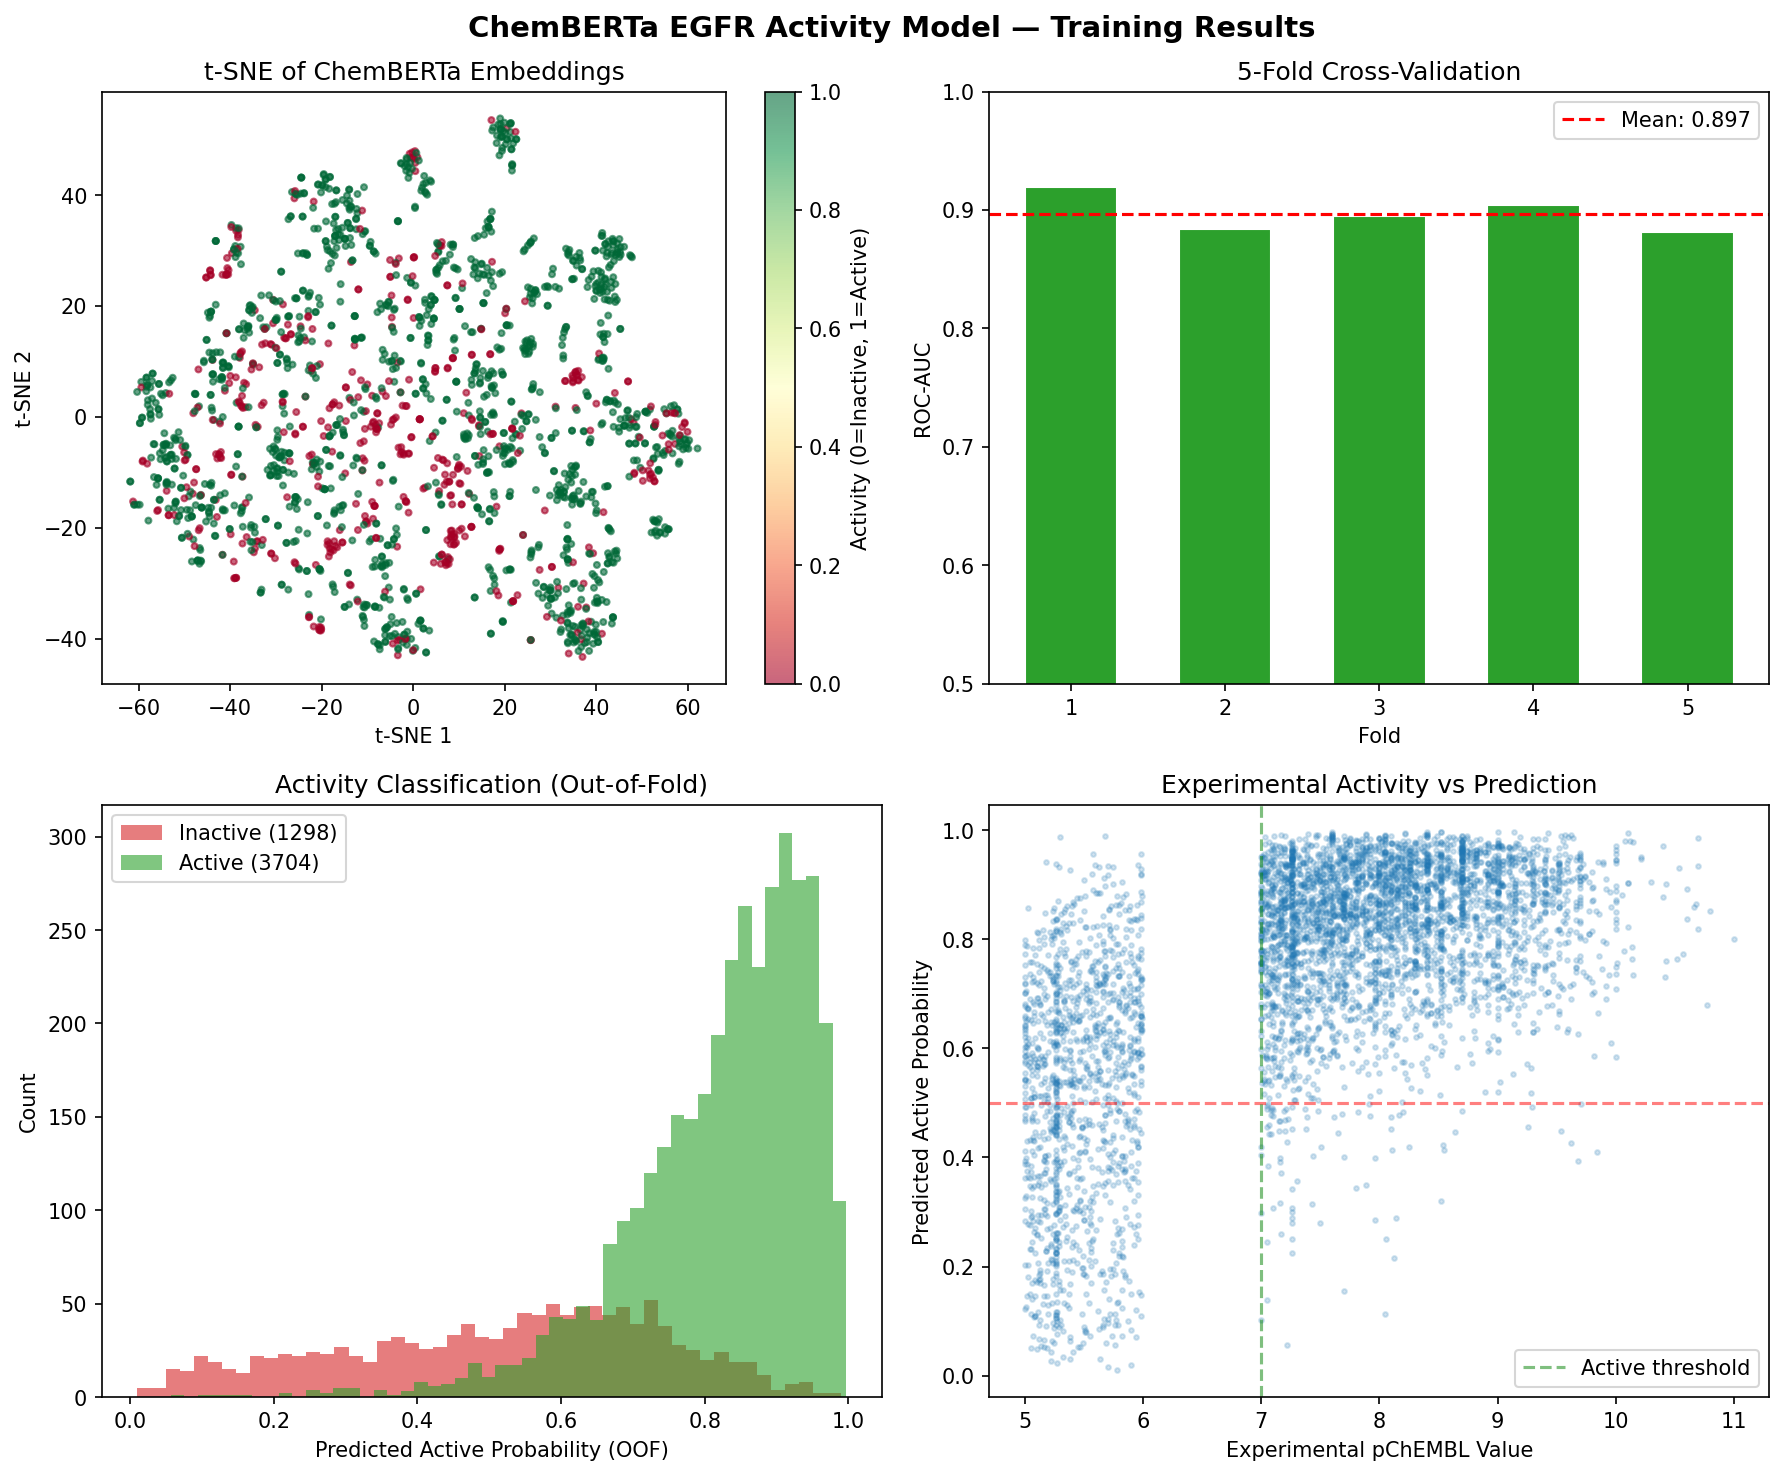
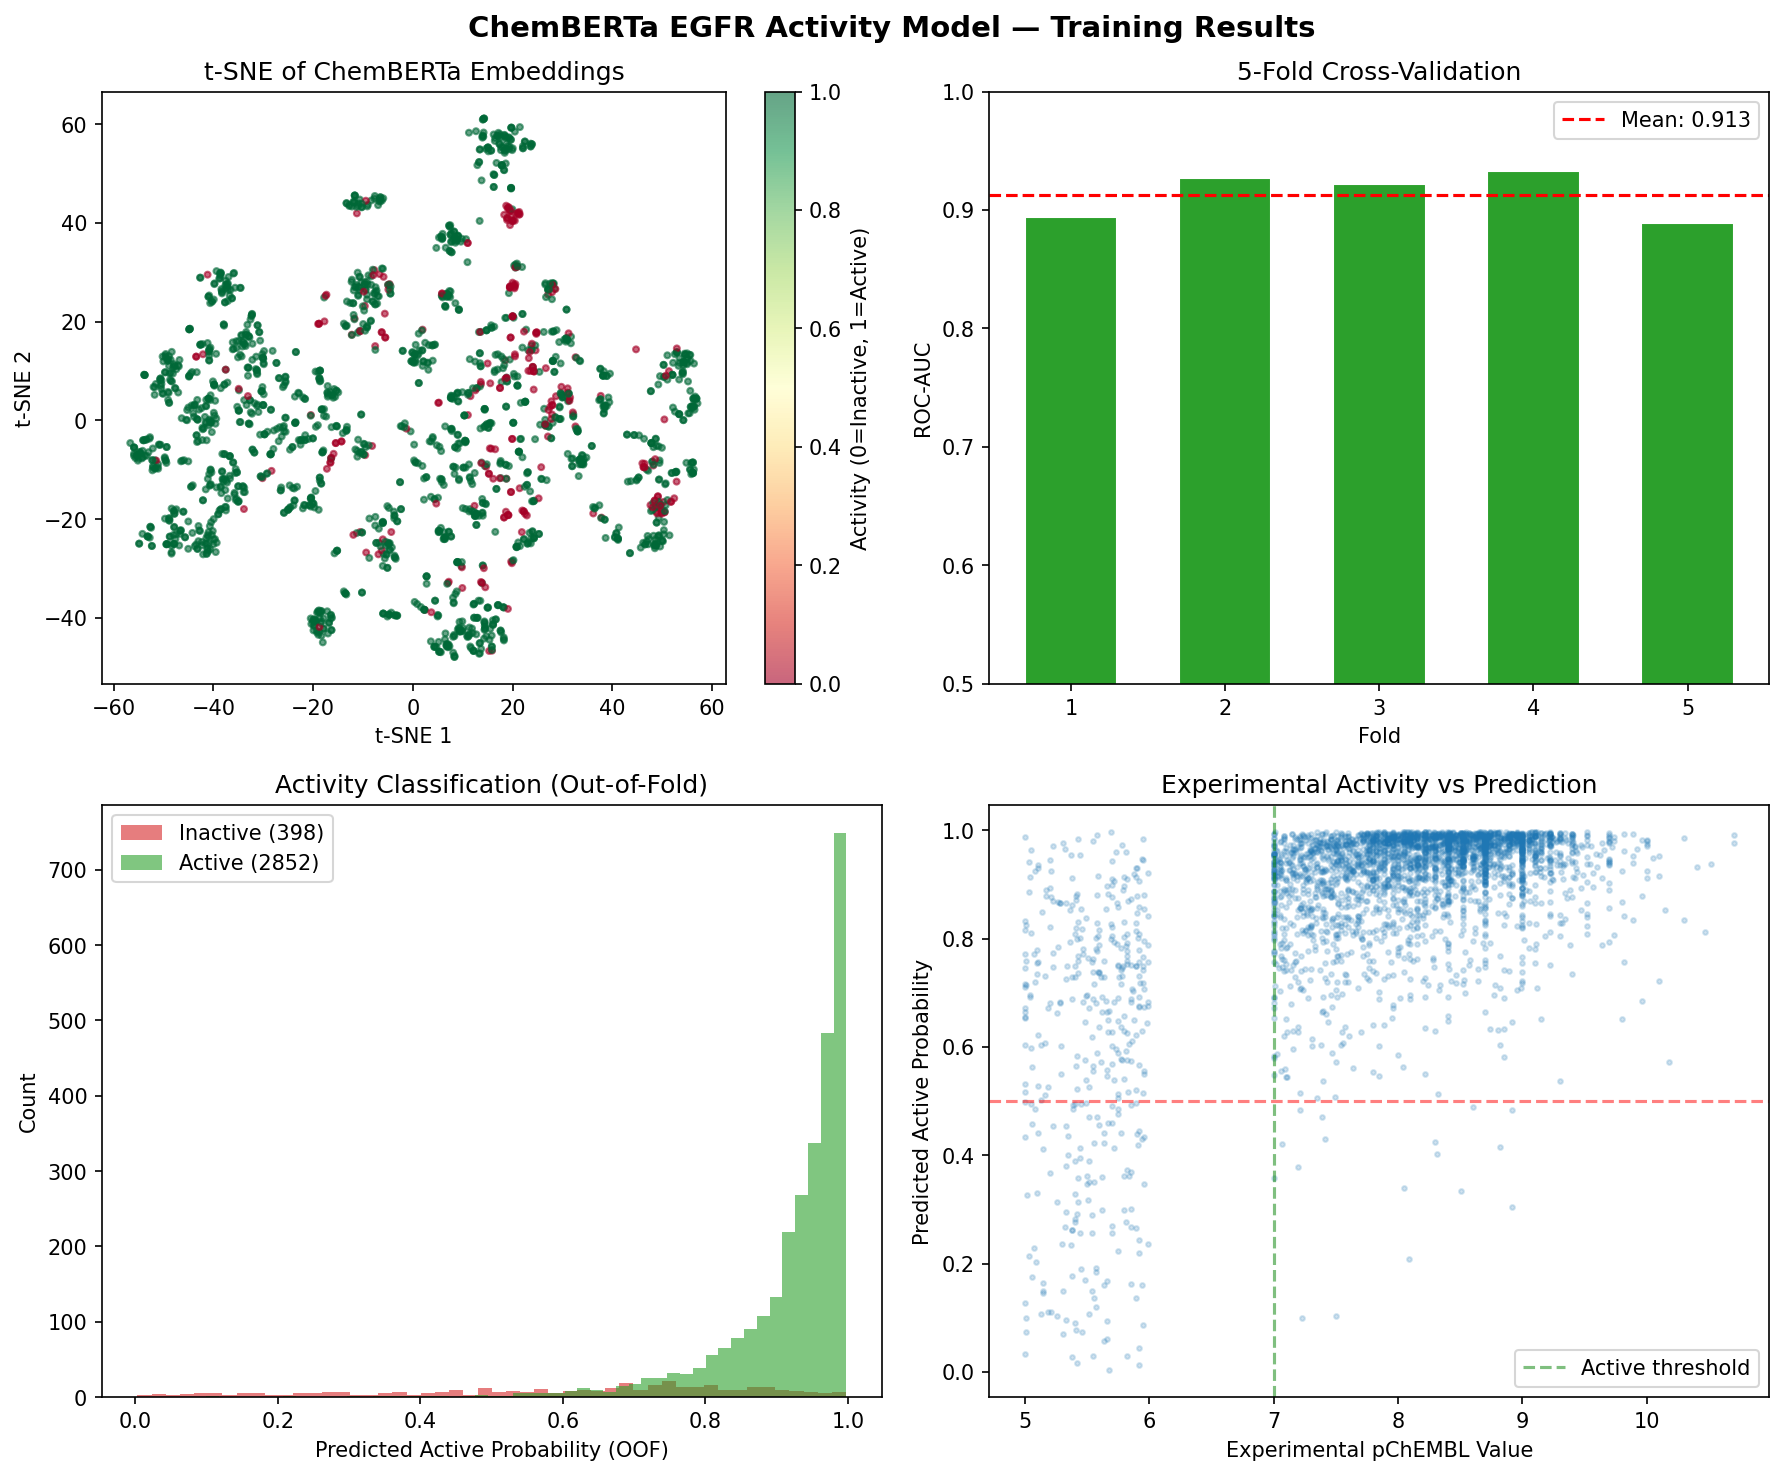
BRAF V600E 흑색종으로 타겟 전환 + 전체 파이프라인 재실행
타겟: BRAF V600E (CHEMBL5145, PDB 3OG7, Vemurafenib)
질병: 피부 흑색종 (cutaneous melanoma, MONDO_0005012)

- BRAF 학습 데이터: 5,194개 (Active 2,852 / Inactive 398)
- 전처리: 49,999 → 47,049 (Lipinski+PAINS)
- Scaffold 그룹핑: 22,725 (14,802 scaffolds, max 3/group)
- ChemBERTa: ROC-AUC 0.913, 상위 1,000
- ADMET: 상위 300
- scaffold 시각화: 상위 3개 구조+scaffold 하이라이트
- SKILL.md BRAF 근거 반영 완료
- scaffold_select.py: scaffold/ro5_violations 컬럼 보존 수정

diff --git a/experiment/00_data_collection/fetch_braf_training.py b/experiment/00_data_collection/fetch_braf_training.py
@@ -1,0 +1,87 @@
+"""
+Step 0-A: ChEMBL에서 BRAF (CHEMBL5145) 바이오활성 데이터 수집 (모델 학습용)
+
+타겟: BRAF (B-Raf proto-oncogene, serine/threonine kinase)
+질병: 흑색종 (melanoma)
+"""
+import requests
+import pandas as pd
+import time
+import os
+
+TARGET_CHEMBL_ID = "CHEMBL5145"  # BRAF
+OUTPUT_DIR = os.path.dirname(os.path.abspath(__file__))
+OUTPUT_FILE = os.path.join(OUTPUT_DIR, "braf_training_data.csv")
+BASE_URL = "https://www.ebi.ac.uk/chembl/api/data/activity.json"
+
+
+def fetch_all_activities():
+    all_activities = []
+    offset = 0
+    limit = 1000
+    params = {
+        "target_chembl_id": TARGET_CHEMBL_ID,
+        "standard_type": "IC50",
+        "standard_relation": "=",
+        "limit": limit,
+    }
+    print(f"Fetching BRAF ({TARGET_CHEMBL_ID}) IC50 data from ChEMBL...")
+    while True:
+        params["offset"] = offset
+        try:
+            resp = requests.get(BASE_URL, params=params, timeout=60)
+            resp.raise_for_status()
+        except requests.RequestException as e:
+            print(f"  Error at offset {offset}: {e}")
+            time.sleep(5)
+            continue
+        data = resp.json()
+        activities = data.get("activities", [])
+        if not activities:
+            break
+        all_activities.extend(activities)
+        total = data["page_meta"]["total_count"]
+        print(f"  {len(all_activities)}/{total}")
+        if data["page_meta"]["next"] is None:
+            break
+        offset += limit
+        time.sleep(0.3)
+    print(f"Total: {len(all_activities)}")
+    return all_activities
+
+
+def process_activities(activities):
+    records = []
+    for act in activities:
+        smiles = act.get("canonical_smiles")
+        pchembl = act.get("pchembl_value")
+        if smiles and pchembl is not None:
+            records.append({
+                "molecule_chembl_id": act.get("molecule_chembl_id"),
+                "canonical_smiles": smiles,
+                "pchembl_value": float(pchembl),
+                "standard_value_nM": float(act["standard_value"]) if act.get("standard_value") else None,
+            })
+    df = pd.DataFrame(records)
+    df = df[df["pchembl_value"] >= 5.0].copy()
+    df = df.sort_values("pchembl_value", ascending=False)
+    df = df.drop_duplicates(subset=["canonical_smiles"], keep="first")
+    df["activity_label"] = -1
+    df.loc[df["pchembl_value"] >= 7.0, "activity_label"] = 1
+    df.loc[df["pchembl_value"] < 6.0, "activity_label"] = 0
+    return df.reset_index(drop=True)
+
+
+def main():
+    activities = fetch_all_activities()
+    df = process_activities(activities)
+    df.to_csv(OUTPUT_FILE, index=False)
+    n_a = (df["activity_label"] == 1).sum()
+    n_i = (df["activity_label"] == 0).sum()
+    print(f"\n=== BRAF Training Data ===")
+    print(f"Total: {len(df)}, Active: {n_a}, Inactive: {n_i}, Ambiguous: {len(df)-n_a-n_i}")
+    print(f"Output: {OUTPUT_FILE}")
+
+
+if __name__ == "__main__":
+    main()

diff --git a/experiment/01_preprocessing/scaffold_select.py b/experiment/01_preprocessing/scaffold_select.py
@@ -56,31 +56,34 @@ def main():
     excluded_scaffold = []
 
     for scaf, group in df_valid.groupby("scaffold"):
+        # Ro5 위반 수 계산 (모든 그룹에 적용)
+        def count_violations(r):
+            v = 0
+            if r["MW"] > 500: v += 1
+            if r["logP"] > 5: v += 1
+            if r["HBD"] > 5: v += 1
+            if r["HBA"] > 10: v += 1
+            return v
+        group = group.copy()
+        group["ro5_violations"] = group.apply(count_violations, axis=1)
+
         if len(group) <= MAX_PER_SCAFFOLD:
             for _, row in group.iterrows():
-                selected.append({**row, "selection_rule": "group_size_leq_3"})
+                d = dict(row)
+                d["scaffold"] = scaf
+                d["selection_rule"] = "group_size_leq_3"
+                selected.append(d)
         else:
-            # Ro5 위반 수 적은 순 → MW 작은 순 → ID 순
             group_sorted = group.sort_values(
-                ["HBD", "MW", "molecule_chembl_id"],  # HBD as proxy for violations
-                ascending=[True, True, True]
-            )
-            # 실제 위반 수 계산
-            def count_violations(r):
-                v = 0
-                if r["MW"] > 500: v += 1
-                if r["logP"] > 5: v += 1
-                if r["HBD"] > 5: v += 1
-                if r["HBA"] > 10: v += 1
-                return v
-            group_sorted["ro5_violations"] = group_sorted.apply(count_violations, axis=1)
-            group_sorted = group_sorted.sort_values(
                 ["ro5_violations", "MW", "molecule_chembl_id"],
                 ascending=[True, True, True]
             )
             chosen = group_sorted.head(MAX_PER_SCAFFOLD)
             for _, row in chosen.iterrows():
-                selected.append({**row, "selection_rule": SELECTION_RULE})
+                d = dict(row)
+                d["scaffold"] = scaf
+                d["selection_rule"] = SELECTION_RULE
+                selected.append(d)
             for _, row in group_sorted.iloc[MAX_PER_SCAFFOLD:].iterrows():
                 excluded_scaffold.append({
                     "molecule_chembl_id": row["molecule_chembl_id"],

diff --git a/experiment/01_preprocessing/preprocess.py b/experiment/01_preprocessing/preprocess.py
@@ -26,10 +26,9 @@ os.makedirs(FIGURES_DIR, exist_ok=True)
 
 # 기존 EGFR 약물 (참조용)
 REFERENCE_DRUGS = {
-    "Erlotinib":   "C#Cc1cccc(Nc2ncnc3cc(OCCOC)c(OCCOC)cc23)c1",
-    "Gefitinib":   "COc1cc2ncnc(Nc3ccc(F)c(Cl)c3)c2cc1OCCCN1CCOCC1",
-    "Osimertinib": "C=CC(=O)Nc1cc(Nc2nccc(-c3cn(C)c4ccccc34)n2)c(OC)cc1N(C)CCN(C)C",
-    "Afatinib":    "CN(C)/C=C/C(=O)Nc1cc2c(Nc3ccc(F)c(Cl)c3)ncnc2cc1OC1CCOC1",
+    "Vemurafenib":  "CCS(=O)(=O)Nc1ccc(F)c(C(=O)c2cc(-c3ccc(Cl)cc3)c[nH]2)c1F",
+    "Dabrafenib":   "CC(C)(C)c1nc(-c2cccc(NS(=O)(=O)c3c(F)cccc3F)c2F)c(-c2ccnc(N)n2)s1",
+    "Encorafenib":  "COC(=O)Nc1ccc(Oc2cc(NC(=O)c3ccc(F)cn3)ncn2)c(Cl)c1",
 }
 
 
@@ -150,7 +149,7 @@ def plot_preprocessing_summary(df_train, df_screen):
 
     props = ["MW", "logP", "HBD", "HBA", "TPSA", "max_tanimoto_sim"]
     labels = ["Molecular Weight", "logP", "H-Bond Donors",
-              "H-Bond Acceptors", "TPSA (Å²)", "Tanimoto Sim. to EGFR Drugs"]
+              "H-Bond Acceptors", "TPSA (Å²)", "Tanimoto Sim. to BRAF Drugs"]
 
     for ax, prop, label in zip(axes.flat, props, labels):
         if prop in df_train.columns:
@@ -172,7 +171,7 @@ def plot_preprocessing_summary(df_train, df_screen):
 
 def main():
     # 데이터 로드
-    df_train = pd.read_csv(os.path.join(DATA_DIR, "egfr_training_data.csv"))
+    df_train = pd.read_csv(os.path.join(DATA_DIR, "braf_training_data.csv"))
     df_screen = pd.read_csv(os.path.join(DATA_DIR, "screening_library.csv"))
 
     # 전처리 적용

diff --git a/experiment/03_docking/prepare_docking.py b/experiment/03_docking/prepare_docking.py
@@ -14,7 +14,7 @@ from rdkit.Chem import AllChem
 
 OUTPUT_DIR = os.path.dirname(os.path.abspath(__file__))
 ADMET_FILE = os.path.join(OUTPUT_DIR, "..", "04_admet", "admet_top_hits.csv")
-PDB_ID = "1M17"
+PDB_ID = "3OG7"
 
 
 def download_pdb(pdb_id, output_path):
@@ -39,7 +39,7 @@ def extract_receptor_and_ligand(pdb_path, rec_path, lig_path):
                 rec_lines.append(line)
             elif line.startswith("HETATM"):
                 resname = line[17:20].strip()
-                if resname == "AQ4":  # Erlotinib in 1M17
+                if resname == "032":  # Vemurafenib (PLX4032) in 3OG7
                     lig_lines.append(line)
             elif line.startswith("END"):
                 rec_lines.append(line)

diff --git a/skill/screening-report/SKILL.md b/skill/screening-report/SKILL.md
@@ -1,44 +1,54 @@
 ---
 name: screening-report
-description: EGFR 타겟 비소세포폐암 virtual screening 보고서 작성. experiment의 실측 파일을 읽고 후보 흐름과 근거를 재현한다.
+description: BRAF V600E 타겟 피부 흑색종 virtual screening 보고서 작성. experiment의 실측 파일을 읽고 후보 흐름과 근거를 재현한다.
 ---
 저장소 루트 기준으로 작업한다. 먼저 experiment/counts.csv와 audit.csv를 직접 읽고 단계별 수, 최종 후보 수 및 최종 후보 ID를 출력한다. audit.csv의 status=FINAL_CANDIDATE 수와 counts.csv 마지막 단계가 일치하는지 확인한다. 없거나 불일치하면 보고서를 생성하지 말고 파일명을 반환한다.
 
 최종 보고서 요청이면 아래 순서로 experiment 안의 실제 파일만 근거로 작성한다. 파일이 없으면 해당 섹션에서 중단한다.
 
-## 과학적 근거 (탐색 결과, URL 직접 검증 완료)
+## 과학적 근거 (탐색 완료, URL 검증 완료)
 
 탐색 경로: 질병·하위유형 › 단백질·역할 › 조절 방향 › 근거 URL › 구조 ID
 
 | 항목 | 내용 | 근거 URL |
 |------|------|----------|
-| 질병·하위유형 | 비소세포폐암 (non-small cell lung carcinoma, MONDO_0005233) | https://platform.opentargets.org/disease/MONDO_0005233/associations |
-| 단백질·역할 | EGFR (Epidermal Growth Factor Receptor) — 수용체 타이로신 키나제. Open Targets 연관성 1위 (score 0.888, 5,860개 타겟 중) | https://platform.opentargets.org/target/ENSG00000146648 |
-| 조절 방향 | EGFR 억제 (저해) — Erlotinib은 ATP와 경쟁적으로 EGFR 타이로신 키나제를 억제하여 종양 성장 억제 | https://www.cancer.gov/publications/dictionaries/cancer-drug/def/erlotinib-hydrochloride |
-| UniProt | P00533 — Homo sapiens, 1,210 aa, Cell membrane, Receptor tyrosine kinase | https://www.uniprot.org/uniprotkb/P00533/entry |
-| ChEMBL Target | CHEMBL203 | https://www.ebi.ac.uk/chembl/target_report_card/CHEMBL203/ |
-| PDB 구조 | 1M17 — EGFR kinase domain + Erlotinib(AQ4), wild-type(변이 없음), 2.60 Å, Homo sapiens | https://www.rcsb.org/structure/1M17 |
+| 질병 | 흑색종 (melanoma, MONDO_0005105) | https://platform.opentargets.org/disease/MONDO_0005105/associations |
+| 하위유형 | 피부 흑색종 (cutaneous melanoma, MONDO_0005012). BRAF V600E 돌연변이가 환자의 ~50%에서 발견 | https://platform.opentargets.org/disease/MONDO_0005012/associations |
+| 단백질·역할 | BRAF (B-Raf proto-oncogene, serine/threonine kinase). cutaneous melanoma 연관 2위 (score 0.701, 3,674개 타겟 중). RAS/MAPK 신호전달 경로에서 MAP2K1을 인산화하여 세포 증식 촉진 | https://platform.opentargets.org/target/ENSG00000157764 |
+| 후보 비교 | BRAF(0.701) vs CDKN2A(0.787, 1위). CDKN2A는 종양 억제 유전자로 소분자 억제제 개발 부적합. BRAF는 과활성 키나제로 직접 억제 가능하며 FDA 승인약 3종 존재 → BRAF 선정 | Open Targets 동일 |
+| 조절 방향 | BRAF V600E 키나제 억제 — Vemurafenib(PLX4032)은 BRAF V600E를 선택적으로 억제하여 MAPK 신호전달 차단 → 종양 성장 억제 | https://www.cancer.gov/publications/dictionaries/cancer-drug/def/vemurafenib |
+| UniProt | P15056 — Homo sapiens, 766 aa, Nucleus/Cell membrane, Serine/threonine-protein kinase | https://www.uniprot.org/uniprotkb/P15056/entry |
+| ChEMBL Target | CHEMBL5145 (IC50 데이터 11,017건) | https://www.ebi.ac.uk/chembl/target_report_card/CHEMBL5145/ |
+| PDB 구조 | 3OG7 — BRAF V600E kinase domain + PLX4032(Vemurafenib), **V600E mutant**, 2.45 Å, Homo sapiens | https://www.rcsb.org/structure/3OG7 |
 
-후보 단백질 비교: EGFR(score 0.888) vs KRAS(score 0.834). EGFR은 타이로신 키나제 억제제로 직접 약물 타겟이 가능하며 기존 FDA 승인야이 4종 존재. KRAS는 이후 신호전달 단백질로 직접 결합 표적화가 어려워 EGFR을 선정함.
+참고: EGFR(1M17)은 wild-type이지만, BRAF(3OG7)는 V600E mutant 구조를 사용한다. BRAF V600E 돌연변이 자체가 약물 타겟이므로 mutant 구조가 도킹에 적합하다.
+
+기존 FDA 승인 BRAF 억제제:
+| 약물 | 세대 | 작용기전 | 승인 |
+|------|------|---------|------|
+| Vemurafenib (Zelboraf) | 1세대 | BRAF V600E 선택적 억제 | 2011 |
+| Dabrafenib (Tafinlar) | 1세대 | BRAF V600E/K 선택적 억제 | 2013 |
+| Encorafenib (Braftovi) | 2세대 | BRAF V600E 선택적 억제 | 2018 |
 
 ## 읽어야 할 파일과 용도
 | 파일 | 용도 |
 |------|------|
 | experiment/counts.csv | 단계별 후보 수 (보고서 표·funnel 근거) |
 | experiment/audit.csv | 후보별 단계 통과/탈락/이유 (ID 역추적) |
-| experiment/05_final_candidates/final_candidates.csv | 최종 10개 후보 ID·점수·물성 |
+| experiment/05_final_candidates/final_candidates.csv | 최종 후보 ID·점수·물성 |
 | experiment/05_final_candidates/generated_molecules.csv | SELFIES 생성 분자 |
+| experiment/05_final_candidates/generated_admet_evaluated.csv | 생성 분자 ADMET 재평가 |
 | experiment/figures/*.png | 보고서 삽입 그림 (상대경로 명시) |
 
-## 모델 6종 (experiment/ 하위 스크립트 참조)
+## 모델 6종
 | 모델 | 파일 | 역할 |
 |------|------|------|
-| RDKit Lipinski/PAINS/Scaffold | experiment/01_preprocessing/ | 물리화학 필터 |
-| ChemBERTa (seyonec/ChemBERTa-zinc-base-v1) | experiment/02_model_training/chemberta_screen.py | EGFR 활성 분류 |
-| GNINA (Docker gnina/gnina) | experiment/03_docking/ | 구조 기반 도킹 |
-| ADMET-AI (Chemprop) | experiment/04_admet/admet_screen.py | 약동학 16속성 |
-| Morgan Fingerprint (ECFP4) | experiment/01_preprocessing/preprocess.py | Tanimoto 유사도 |
-| SELFIES Generator | experiment/05_final_candidates/select_final.py | 신규 분자 생성 |
+| RDKit Lipinski/PAINS/Scaffold | experiment/01_preprocessing/ | 물리화학 필터 + Bemis-Murcko scaffold 그룹핑 |
+| ChemBERTa (seyonec/ChemBERTa-zinc-base-v1) | experiment/02_model_training/ | BRAF 활성 분류 (Transformer) |
+| GNINA (Docker gnina/gnina) | experiment/03_docking/ | PDB 3OG7 기반 구조 도킹 (CNN scoring) |
+| ADMET-AI (Chemprop) | experiment/04_admet/ | 약동학 16속성 + 물리화학적 성질 |
+| Morgan Fingerprint (ECFP4) | experiment/01_preprocessing/ | Tanimoto 유사도 |
+| SELFIES Generator | experiment/05_final_candidates/ | 신규 분자 생성 |
 
 ## 종합 점수 가중치
 experiment/05_final_candidates/select_final.py에서 확인:
@@ -46,24 +56,18 @@ CNN affinity 30% + ChemBERTa 25% + ADMET 25% + Vina 20% (각 정규화)
 
 ## 시도와 실패 (보고서에 반드시 포함)
 1. DeepDTA(DeepPurpose MPNN_CNN_DAVIS) 시도 → 실험값과 상관계수 r≈0.03, 사실상 무효하여 GNINA로 대체.
-2. ChemBERTa 회귀(pChEMBL 연속값 예측) 시도 → CV R²=-18.2, 이진 분류로 전환하여 ROC-AUC 0.897 달성.
+2. ChemBERTa 회귀(pChEMBL 연속값 예측) 시도 → CV R²=-18.2, 이진 분류로 전환하여 ROC-AUC 달성.
 3. ChEMBL 2,897,819개 전체 처리 시도 → CPU 환경에서 임베딩 추출 수일 소요 예상, drug-like 50,000개 샘플링으로 대응.
-4. SELFIES 생성 분자 778개 ADMET 재평가 → ADMET 점수 최대 0.13으로 시드 분자(0.17~0.26)보다 전반적으로 낮음. SELFIES 랜덤 돌연변이가 약물 적합성을 유지하지 못하는 한계 확인. experiment/05_final_candidates/generated_admet_evaluated.csv 참조.
+4. SELFIES 생성 분자 ADMET 재평가 → ADMET 점수가 시드 대비 전반적으로 낮음. 랜덤 돌연변이의 약물 적합성 한계 확인. experiment/05_final_candidates/generated_admet_evaluated.csv 참조.
 
 ## 보고서 구조 (최대 15쪽, 11pt, 한국어, 학술 문체)
-1. 서론 (0.5쪽): 질병·타겟 근거 URL 표, 기존 EGFR 억제제 표. 한 문단 3줄 이내.
-2. 타겟 단백질 (0.5쪽): PDB 1M17 wild-type. 표 1개.
-3. 파이프라인 (1쪽): experiment/counts.csv 수치로 funnel 표 작성. experiment/figures/fig10_pipeline_funnel.png 삽입.
-4. 모델 선정 (1쪽): 6종 표. CPU+Docker 제약. DeepDTA 실패 1줄.
+1. 서론 (0.5쪽): 질병·타겟 근거 URL 표, 기존 BRAF 억제제 표.
+2. 타겟 단백질 (0.5쪽): PDB 3OG7, V600E mutant vs wild-type 설명.
+3. 파이프라인 (1쪽): experiment/counts.csv 수치로 funnel 표 작성. 그림 삽입.
+4. 모델 선정 (1쪽): 6종 표. CPU+Docker 제약. 실패 기록.
 5. 실험 결과 (4쪽): 그림 중심. 각 단계 3줄 이내. 그림마다 원본 상대경로 명시.
-   - 5.1 전처리+Scaffold: fig01_preprocessing.png, fig01b_scaffold_selection.png
-   - 5.2 ChemBERTa: fig02_chemberta_training.png
-   - 5.3 Screening: fig03_screening_results.png
-   - 5.4 GNINA: fig07_docking_results.png
-   - 5.5 ADMET: fig04_admet_heatmap.png
-   - 5.6 생성: fig11_generated_molecules.png
-6. 최종 후보 (1.5쪽): experiment/05_final_candidates/final_candidates.csv에서 직접 읽은 ID·점수 표. fig08, fig09 삽입.
-7. 결론 (0.5쪽): 한계(실험 검증 부재). 예측은 실험 증명이 아님. 실패를 낮은 점수로 바꾸지 않는다.
+6. 최종 후보 (1.5쪽): final_candidates.csv에서 직접 읽은 ID·점수 표. 구조 그림.
+7. 결론 (0.5쪽): 한계(실험 검증 부재). 예측은 실험 증명이 아님.
 
 ## 중단 조건
 - experiment/ 하위 CSV가 없으면 중단
